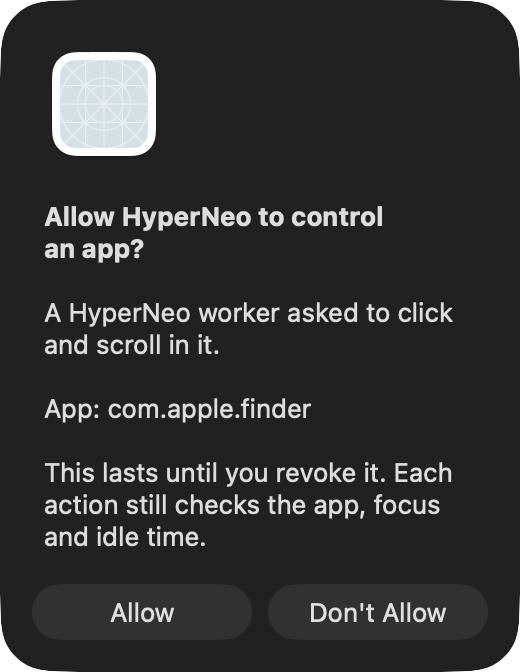
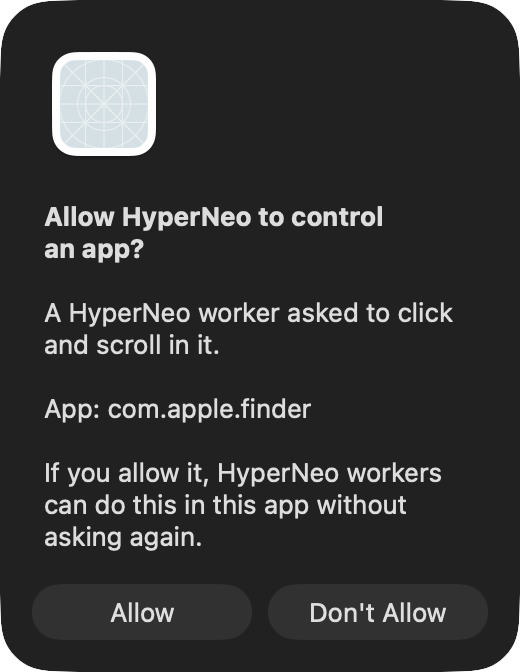
fix: keep the grant dialog to what is enforced and cool down declines
The dialog promised focus and idle checks and a revoke control that do not
exist yet. A declined dialog also reopened on every worker retry. The owner's
decline now holds for 10 minutes per app and class, and workers see it as
its own refusal.

Changed region(s): [[0.0615, 0.6875, 0.8923, 0.8438]]

diff --git a/packages/daemon/src/lib/desktop/mcp-proxy.ts b/packages/daemon/src/lib/desktop/mcp-proxy.ts
@@ -33,6 +33,7 @@ type Refusal =
   | 'target_unverified'
   | 'target_mismatch'
   | 'app_action_not_authorized'
+  | 'app_action_declined'
   | 'guards_unavailable';
 type Context = { reason: Refusal; class?: string; app_id?: string };
 const explanations: Record<string, string> = {
@@ -44,6 +45,8 @@ const explanations: Record<string, string> = {
   target_mismatch: 'The addressed process, window or app does not match the verified target.',
   app_action_not_authorized:
     'The owner has not approved this action class for this app. Approval is waiting in a dialog on the Mac.',
+  app_action_declined:
+    'The owner declined this action class for this app on the Mac. It will not be asked again for 10 minutes.',
   driver_unavailable: 'The desktop driver is not available.',
   driver_error: 'The desktop driver failed after the call was sent.',
 };

diff --git a/packages/daemon/tests/unit/1-core/desktop/target-broker.test.ts b/packages/daemon/tests/unit/1-core/desktop/target-broker.test.ts
@@ -94,6 +94,23 @@ test('createDesktopTargetBroker passes a missing grant through as its own refusa
   });
 });
 
+test('createDesktopTargetBroker passes a recent owner decline through as its own refusal', async () => {
+  const { broker } = await desktop((request) => ({
+    ok: true,
+    result: {
+      call_id: request.callId,
+      reason: 'app_action_declined',
+      class: 'pointer',
+      bundle_id: 'com.apple.finder',
+    },
+  }));
+  expect(await broker({ worker_id: 'worker-a' }, 'click', { pid: 42 }, 'call-6')).toEqual({
+    reason: 'app_action_declined',
+    class: 'pointer',
+    app_id: 'com.apple.finder',
+  });
+});
+
 test('createDesktopTargetBroker refuses another call id or a failed reply', async () => {
   const { broker } = await desktop((request) =>
     request.tool === 'click'

diff --git a/packages/daemon/src/lib/desktop/target-broker.ts b/packages/daemon/src/lib/desktop/target-broker.ts
@@ -12,6 +12,7 @@ const Reply = z.object({
         'target_unverified',
         'target_mismatch',
         'app_action_not_authorized',
+        'app_action_declined',
         'guards_unavailable',
       ]),
       class: z.string().optional(),

diff --git a/packages/desktop/tests/worker-drivers.py b/packages/desktop/tests/worker-drivers.py
@@ -708,27 +708,44 @@ class WorkerDrivers(unittest.TestCase):
                          {'reason': 'app_action_not_authorized', 'class': 'pointer', 'bundle_id': 'com.apple.dock'})
         print('grant_after_restart=finder/pointer keyboard=denied other_app=denied')
 
-    def dialogs(self, answer='deny'):
-        result = self.call('fixture-dialog', tool=answer)
+    def dialogs(self, answer=None):
+        result = self.call('fixture-dialog', **({'tool': answer} if answer else {}))
         self.assertTrue(result['ok'], result)
         return result['result']['dialogs']
 
     def test_worker_answer_cannot_grant(self):
         pid = finder()
         self.call('fixture-revoke', tool='click', arguments={'pid': pid})
-        self.dialogs('deny')
+        self.call('fixture-revoke', tool='type_text', arguments={'pid': pid})
+        base = self.dialogs('deny')
         for forged in ({'approved': True}, {'answer': 'allow'}, {'grant': True}):
             self.assertFalse(self.call('resolve', tool='click', arguments={'pid': pid}, callId='c', **forged)['ok'])
         for action in ('approve', 'grant', 'answer'):
             self.assertEqual(self.call(action, tool='click', arguments={'pid': pid}),
                              {'ok': False, 'error': 'Unknown Desktop control action'})
         denied = 'app_action_not_authorized' if SIGNED else 'guards_unavailable'
-        for attempt in (1, 2):
-            self.assertEqual(self.resolve('click', {'pid': pid}, action='resolve'),
-                             {'reason': denied, 'class': 'pointer', 'bundle_id': 'com.apple.finder'})
-            wait_until(lambda: self.dialogs() == (attempt if SIGNED else 0))
-        self.assertEqual(self.resolve('click', {'pid': pid}, action='resolve')['reason'], denied)
-        print(f'signed_host={SIGNED} forged_answers=refused declined_dialog=no_grant replay=new_dialog')
+        self.assertEqual(self.resolve('click', {'pid': pid}, action='resolve'),
+                         {'reason': denied, 'class': 'pointer', 'bundle_id': 'com.apple.finder'})
+        wait_until(lambda: self.dialogs() == base + (1 if SIGNED else 0))
+        if SIGNED:
+            wait_until(lambda: self.resolve('click', {'pid': pid}, action='resolve')['reason'] == 'app_action_declined')
+            self.assertEqual(self.dialogs(), base + 1)
+            self.assertEqual(self.resolve('type_text', {'pid': pid}, action='resolve')['reason'], denied)
+            wait_until(lambda: self.dialogs() == base + 2)
+            self.dialogs('deny')
+            self.assertEqual(self.resolve('click', {'pid': pid}, action='resolve')['reason'], denied)
+            wait_until(lambda: self.dialogs() == base + 3)
+        print(f'signed_host={SIGNED} forged_answers=refused declined_dialog=no_grant retry={"cooldown" if SIGNED else "no_dialog"} other_class={"new_dialog" if SIGNED else "no_dialog"}')
+
+    def test_dialog_names_only_existing_checks(self):
+        texts = self.call('fixture-dialog')['result']['texts']
+        self.assertEqual(sorted(texts), ['keyboard', 'launch', 'observe', 'other', 'pointer'])
+        self.assertIsNone(texts['other'])
+        for text in (texts[name] for name in ('observe', 'launch', 'pointer', 'keyboard')):
+            self.assertIn('App: com.apple.finder', text)
+            for promise in ('focus', 'idle', 'revoke'):
+                self.assertNotIn(promise, text.lower())
+        print('dialog_text=no_focus_idle_revoke unknown_class=refused')
 
     def test_owner_yes_grants_exactly_the_shown_pair(self):
         pid = finder()

diff --git a/packages/desktop/src-tauri/src/desktop_grants.rs b/packages/desktop/src-tauri/src/desktop_grants.rs
@@ -7,9 +7,15 @@ use security_framework::{
         PasswordOptions,
     },
 };
-use std::{collections::BTreeSet, sync::Mutex};
+use std::{
+    collections::{BTreeMap, BTreeSet},
+    sync::Mutex,
+    time::{Duration, Instant},
+};
 
 static PENDING: Mutex<BTreeSet<String>> = Mutex::new(BTreeSet::new());
+pub(super) static DECLINED: Mutex<BTreeMap<String, Instant>> = Mutex::new(BTreeMap::new());
+const DECLINE_COOLDOWN: Duration = Duration::from_secs(10 * 60);
 #[cfg(test)]
 pub(super) static FIXTURE_DIALOG: Mutex<(&str, u64)> = Mutex::new(("deny", 0));
 
@@ -58,7 +64,23 @@ pub(super) fn record(
     result.map_err(|error| format!("grant_store_refused: {}", error.code()))
 }
 
+pub(super) fn dialog_text(bundle_id: &str, class: &str) -> Option<String> {
+    let action = match class {
+        "observe" => "see its windows",
+        "launch" => "open it",
+        "pointer" => "click and scroll in it",
+        "keyboard" => "type into it",
+        _ => return None,
+    };
+    Some(format!(
+        "A HyperNeo worker asked to {action}.\n\nApp: {bundle_id}\n\nIf you allow it, HyperNeo workers can do this in this app without asking again."
+    ))
+}
+
 fn owner_allows(bundle_id: &str, class: &str) -> bool {
+    let Some(message) = dialog_text(bundle_id, class) else {
+        return false;
+    };
     #[cfg(test)]
     {
         let mut fixture = FIXTURE_DIALOG.lock().unwrap();
@@ -67,15 +89,6 @@ fn owner_allows(bundle_id: &str, class: &str) -> bool {
             return fixture.0 == "allow";
         }
     }
-    let action = match class {
-        "observe" => "see its windows",
-        "launch" => "open it",
-        "pointer" => "click and scroll in it",
-        _ => "type into it",
-    };
-    let message = format!(
-        "A HyperNeo worker asked to {action}.\n\nApp: {bundle_id}\n\nThis lasts until you revoke it. Each action still checks the app, focus and idle time."
-    );
     dispatch2::run_on_main(|mtm| {
         let alert = NSAlert::new(mtm);
         alert.setMessageText(&NSString::from_str("Allow HyperNeo to control an app?"));
@@ -88,13 +101,17 @@ fn owner_allows(bundle_id: &str, class: &str) -> bool {
     })
 }
 
-pub(super) fn ask_owner(bundle_id: &str, requirement: &str, class: &str) {
+pub(super) fn ask_owner(bundle_id: &str, requirement: &str, class: &str) -> &'static str {
     if bundle_id == "io.hyperneo.app" {
-        return;
+        return "app_action_not_authorized";
     }
     let key = format!("{class}\n{requirement}");
+    let declined = DECLINED.lock().unwrap().get(&key).copied();
+    if declined.is_some_and(|at| at.elapsed() < DECLINE_COOLDOWN) {
+        return "app_action_declined";
+    }
     if !PENDING.lock().unwrap().insert(key.clone()) {
-        return;
+        return "app_action_not_authorized";
     }
     let (bundle_id, requirement, class) = (
         bundle_id.to_owned(),
@@ -103,10 +120,14 @@ pub(super) fn ask_owner(bundle_id: &str, requirement: &str, class: &str) {
     );
     std::thread::spawn(move || {
         if owner_allows(&bundle_id, &class) {
+            DECLINED.lock().unwrap().remove(&key);
             if let Err(error) = record(&bundle_id, &requirement, &class, true) {
                 log::warn!("Desktop grant was approved but not stored: {error}");
             }
+        } else {
+            DECLINED.lock().unwrap().insert(key.clone(), Instant::now());
         }
         PENDING.lock().unwrap().remove(&key);
     });
+    "app_action_not_authorized"
 }

diff --git a/packages/desktop/src-tauri/src/desktop_drivers.rs b/packages/desktop/src-tauri/src/desktop_drivers.rs
@@ -258,12 +258,25 @@ impl Drivers {
         #[cfg(test)]
         if request.action == "fixture-dialog" {
             let mut fixture = grants::FIXTURE_DIALOG.lock().unwrap();
-            fixture.0 = match request.tool.as_deref() {
-                Some("allow") => "allow",
-                Some("real") => "real",
-                _ => "deny",
-            };
-            return Ok(json!({"dialogs": fixture.1}));
+            if let Some(mode) = request.tool.as_deref() {
+                fixture.0 = match mode {
+                    "allow" => "allow",
+                    "real" => "real",
+                    _ => "deny",
+                };
+                grants::DECLINED.lock().unwrap().clear();
+            }
+            let texts: serde_json::Map<String, Value> =
+                ["observe", "launch", "pointer", "keyboard", "other"]
+                    .map(|class| {
+                        (
+                            class.to_owned(),
+                            json!(grants::dialog_text("com.apple.finder", class)),
+                        )
+                    })
+                    .into_iter()
+                    .collect();
+            return Ok(json!({"dialogs": fixture.1, "texts": texts}));
         }
         #[cfg(test)]
         if request.action == "fixture-slots" {
@@ -286,9 +299,11 @@ impl Drivers {
                 match request.action.as_str() {
                     "resolve" => {
                         if let Err(reason) = grants::check(bundle, requirement, class) {
-                            if reason == "app_action_not_authorized" {
-                                grants::ask_owner(bundle, requirement, class);
-                            }
+                            let reason = if reason == "app_action_not_authorized" {
+                                grants::ask_owner(bundle, requirement, class)
+                            } else {
+                                reason
+                            };
                             result = json!({"reason": reason, "class": class, "bundle_id": bundle});
                         }
                     }

diff --git a/docs/design/desktop-grant-approval.md b/docs/design/desktop-grant-approval.md
@@ -12,8 +12,14 @@ The earlier plan had the host accept the paired owner's card answer delivered by
 
 1. A worker call resolves to a verified app and action class with no grant. The host refuses it with `app_action_not_authorized`.
 2. The host opens one modal dialog for that app and class, unless one is already open. The dialog names the app's bundle ID and the action. "Don't Allow" is the default button.
-3. Only a click on "Allow" records the grant in the host's private keychain group. A declined, dismissed or failed dialog records nothing.
+3. Only a click on "Allow" records the grant in the host's private keychain group. A declined, dismissed or failed dialog records nothing. After a decline, the host shows no new dialog for that app and class for 10 minutes and refuses with `app_action_declined`, so worker retries cannot flood the owner.
 4. The worker's refusal says approval is waiting on the Mac. The worker reports that through its normal blocker, so the Neo card only points the human to the Mac.
 5. The next ordinary call checks the grant and every other guard again. Approval never runs input by itself.
 
 The control socket has no answer or approve action, and requests with unknown fields are rejected. A worker therefore cannot submit, replay or reuse an answer. The host never offers a grant for its own app, so driver input cannot be pointed at its own dialog.
+
+## Limits of this slice
+
+- The dialog is English only. The host has no localization yet, and the bundle ID and action stay readable in any language.
+- A grant lasts until its keychain item (service `io.hyperneo.desktop.grant`) is removed. There is no revoke control in the app yet, so the dialog does not promise one.
+- The dialog promises only the checks that exist today: the verified app and the action class. Focus and idle checks at input time come in a later slice.

diff --git a/.claude/skills/verify/journeys/desktop-grant-approval.md b/.claude/skills/verify/journeys/desktop-grant-approval.md
@@ -13,7 +13,7 @@ refused, and no dialog opens.
 cargo rustc --locked --manifest-path packages/desktop/tests/driver-host/Cargo.toml \
   --bin desktop-driver-fixture -- --cfg test
 python3 packages/desktop/tests/worker-drivers.py \
-  packages/desktop/tests/driver-host/target/debug/desktop-driver-fixture -k grant -k answer -k owner_yes
+  packages/desktop/tests/driver-host/target/debug/desktop-driver-fixture -k grant -k answer -k owner_yes -k dialog_names
 ```
 
 Signed host, on a Mac with the Developer ID identity in its keychain and the
@@ -26,7 +26,9 @@ APPLE_SIGNING_IDENTITY=<identity name or SHA-1> \
 ```
 
 Pass means `grant-approval.txt` ends in `OK` with `signed_host=True`, a
-same-user keychain add returns -34018, a declined dialog records nothing, and an
+same-user keychain add returns -34018, a declined dialog records nothing and
+puts that app and class on a 10-minute `app_action_declined` cooldown, the dialog
+text names no focus, idle or revoke check, and an
 allowed dialog grants only Finder/pointer. The tests answer the dialog through
 the fixture seam and remove their fixture grants.
 
